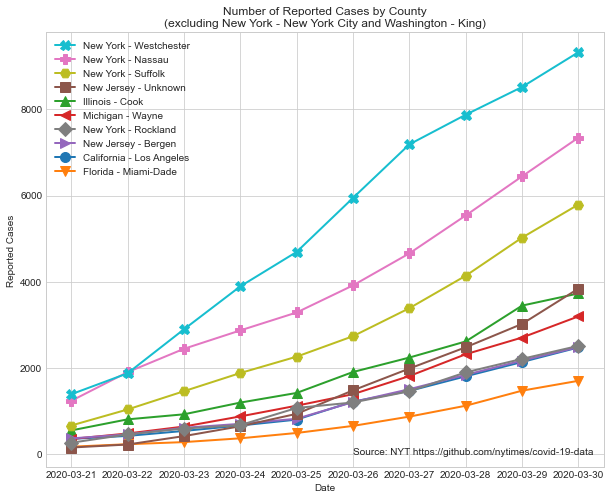
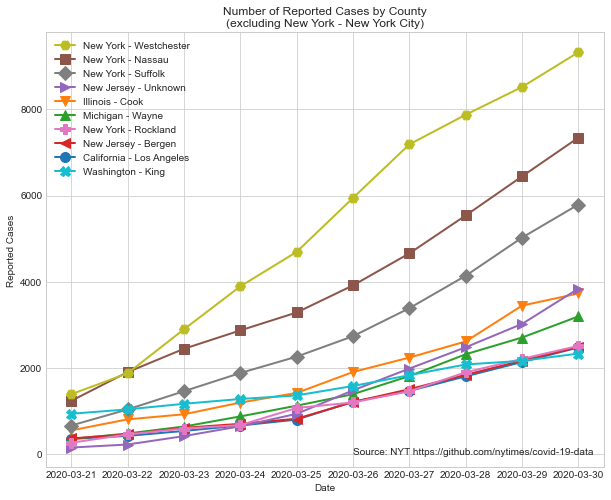
revise readme

diff --git a/covid.py b/covid.py
@@ -113,11 +113,15 @@ plot_over_time(df=states, geo="state", stat="cases", geo_to_rm=states_to_rm)
 plot_over_time(df=states, geo="state", stat="deaths", geo_to_rm=states_to_rm)
 
 # %% County Plots
-counties_to_rm = ["New York - New York City", "Washington - King"]
+counties_to_rm = ["New York - New York City"]
 plot_over_time(
-    df=counties, geo="county", stat="cases", n_geo=12, geo_to_rm=counties_to_rm
+    df=counties, geo="county", stat="cases", n_geo=11, geo_to_rm=counties_to_rm
 )
 
+counties_to_rm = ["New York - New York City", "Washington - King"]
 plot_over_time(
     df=counties, geo="county", stat="deaths", n_geo=12, geo_to_rm=counties_to_rm
 )
+
+
+# %%

diff --git a/README.md b/README.md
@@ -1,20 +1,28 @@
-# Coronavirus (Covid-19) in the U.S.
+# Coronavirus in the U.S.
 
-## Cases and Deaths by State
+## Counties with the most deaths
 
-These plots show the number of reported Covid-19 cases and deaths for the ten states with the highest counts, excluding New York. 
+This plot shows the number of reported Covid-19 deaths for the ten counties with the highest counts, excluding New York City and King County, WA. NYC has 900+ deaths, while King County has 150+. 
 
-![state_cases](plots/state_cases.png)
+![county_deaths](plots/county_deaths.png)
+
+## States with the most deaths
+
+This plot shows the number of reported Covid-19 deaths for the ten states with the highest counts, excluding New York, which has 1,200+ deaths. 
 
 ![state_deaths](plots/state_deaths.png)
 
-## County-Level Cases and Deaths
+## Counties with the most cases
 
-These plots show the number of reported Covid-19 cases and deaths for the ten counties with the highest counts, excluding New York City and King County, WA. 
+This plot shows the number of reported Covid-19 cases for the ten counties with the highest counts, excluding New York City, which has 38,000+ cases. 
 
 ![county_cases](plots/county_cases.png)
 
-![county_deaths](plots/county_deaths.png)
+## States with the most cases
+
+This plot shows the number of reported Covid-19 cases for the ten states with the highest counts, excluding New York, which has 67,000+ cases. 
+
+![state_cases](plots/state_cases.png)
 
 ## Source
 
